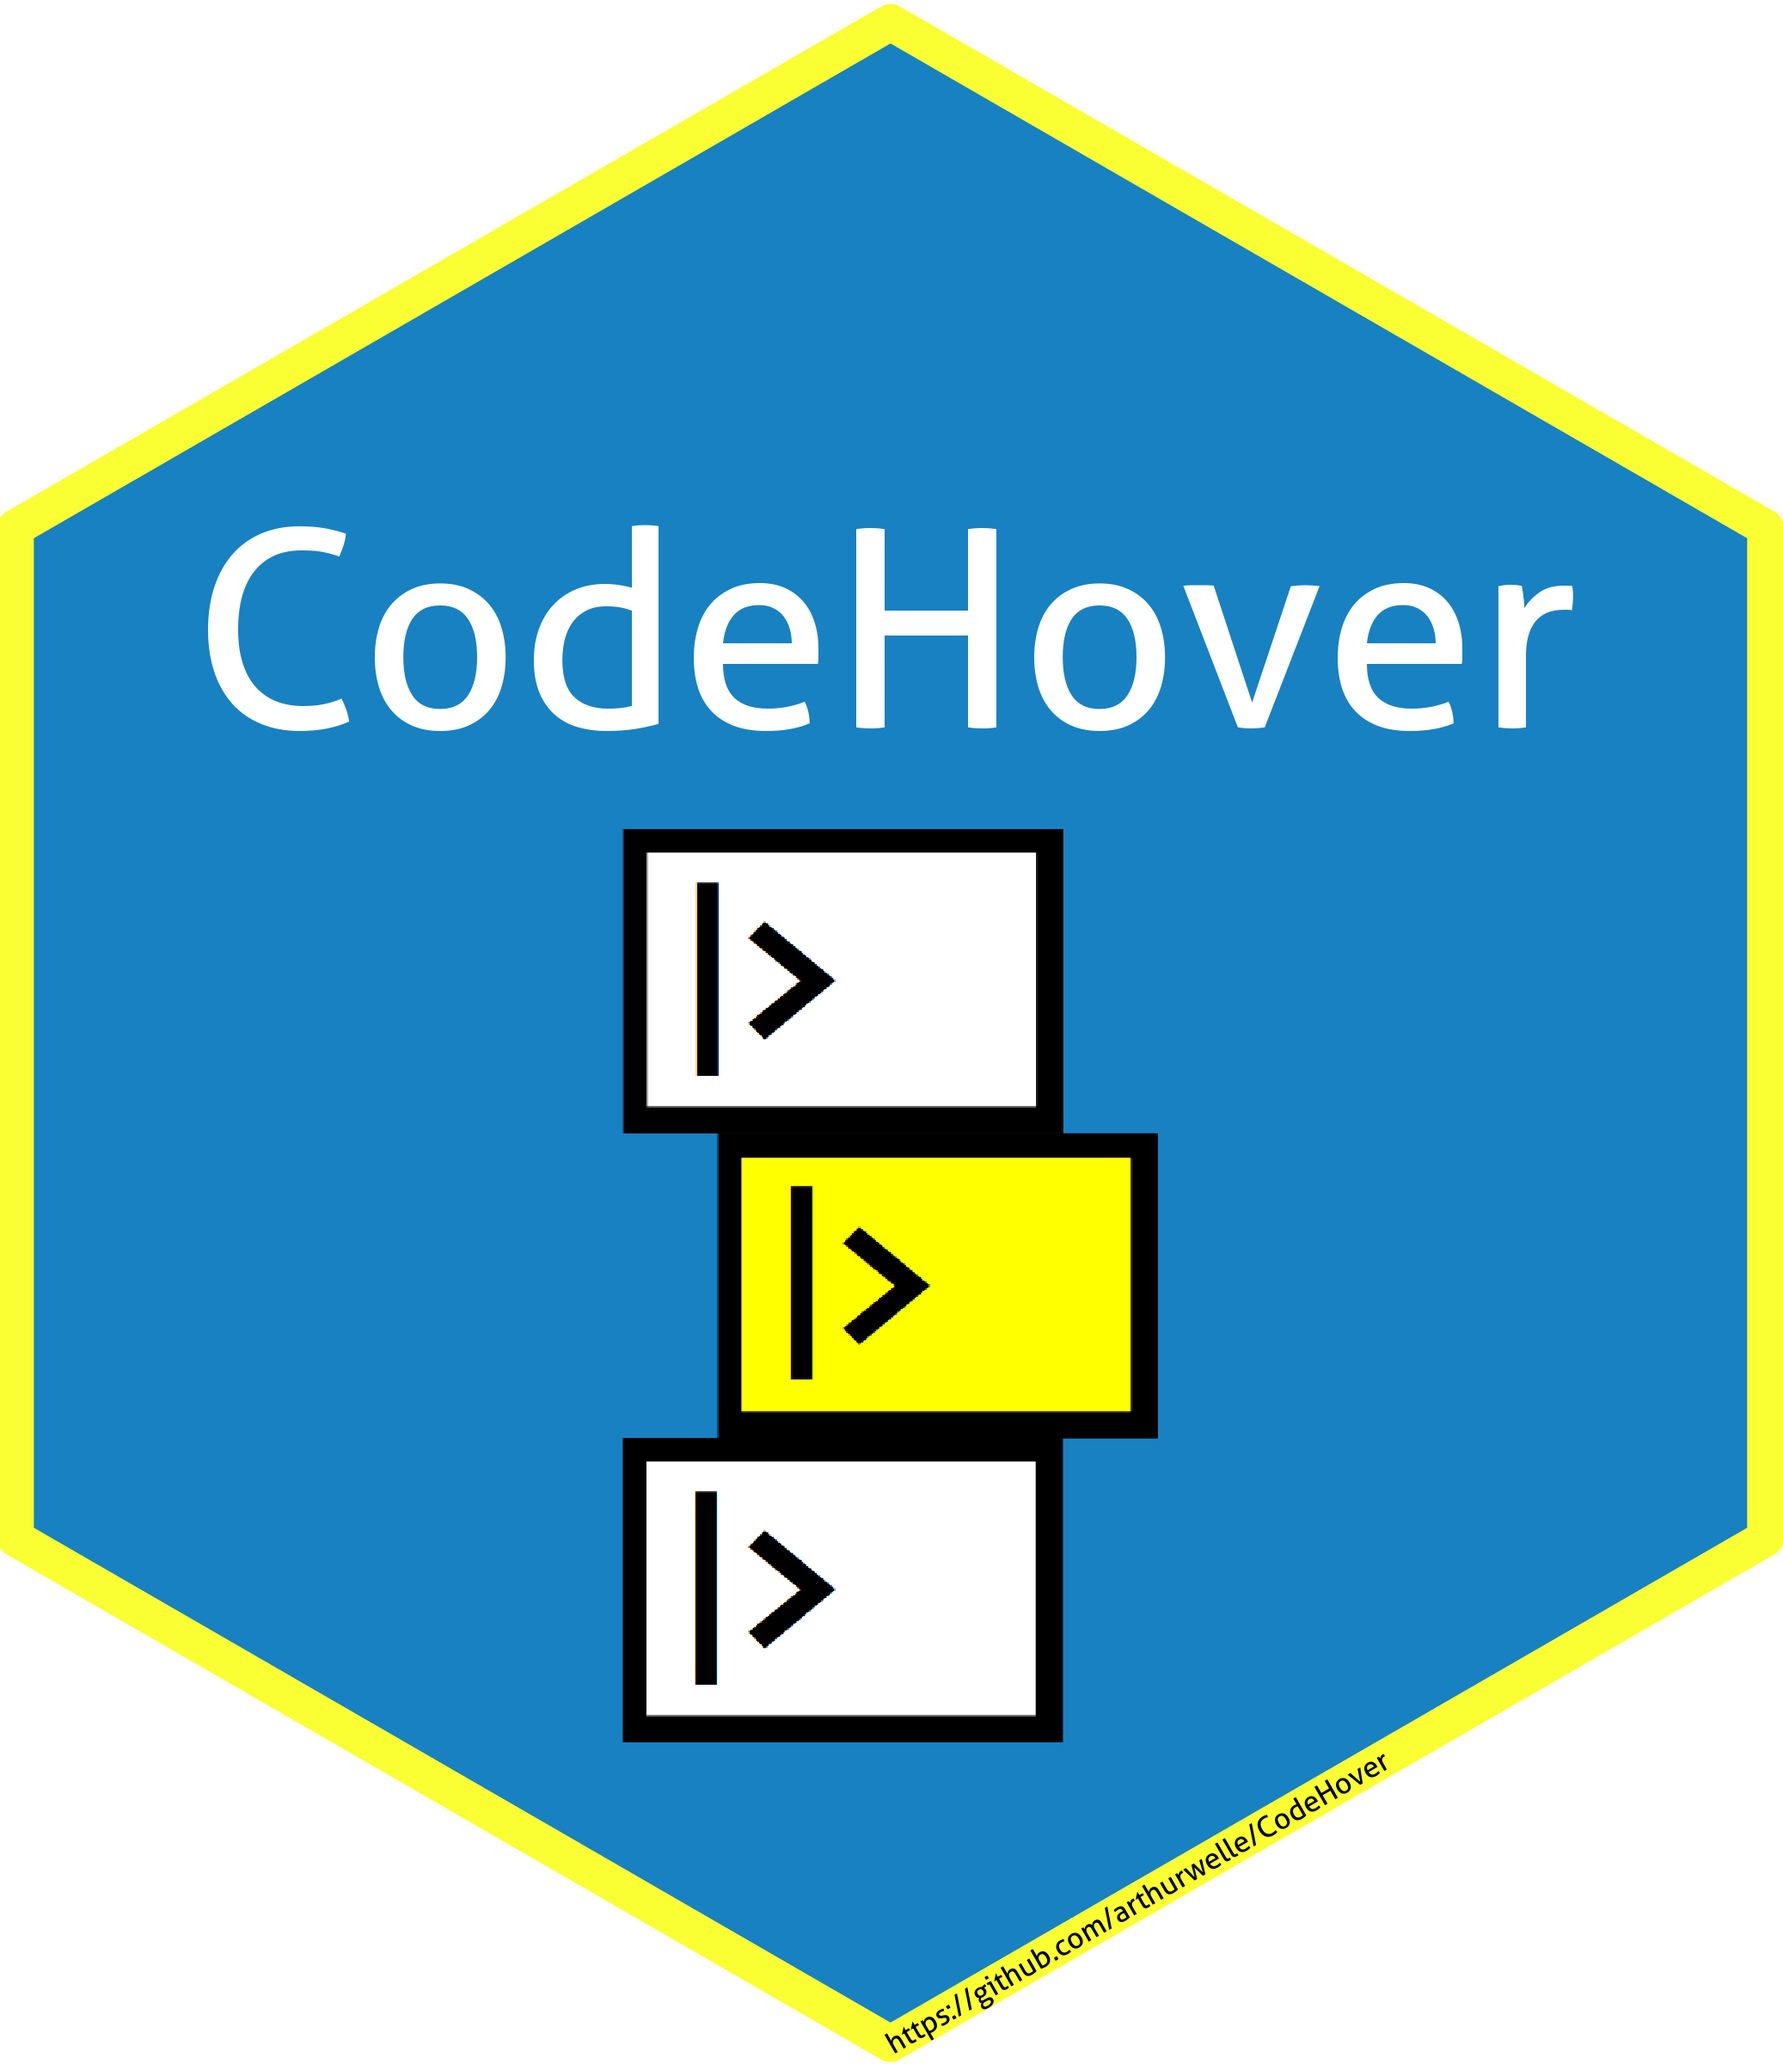
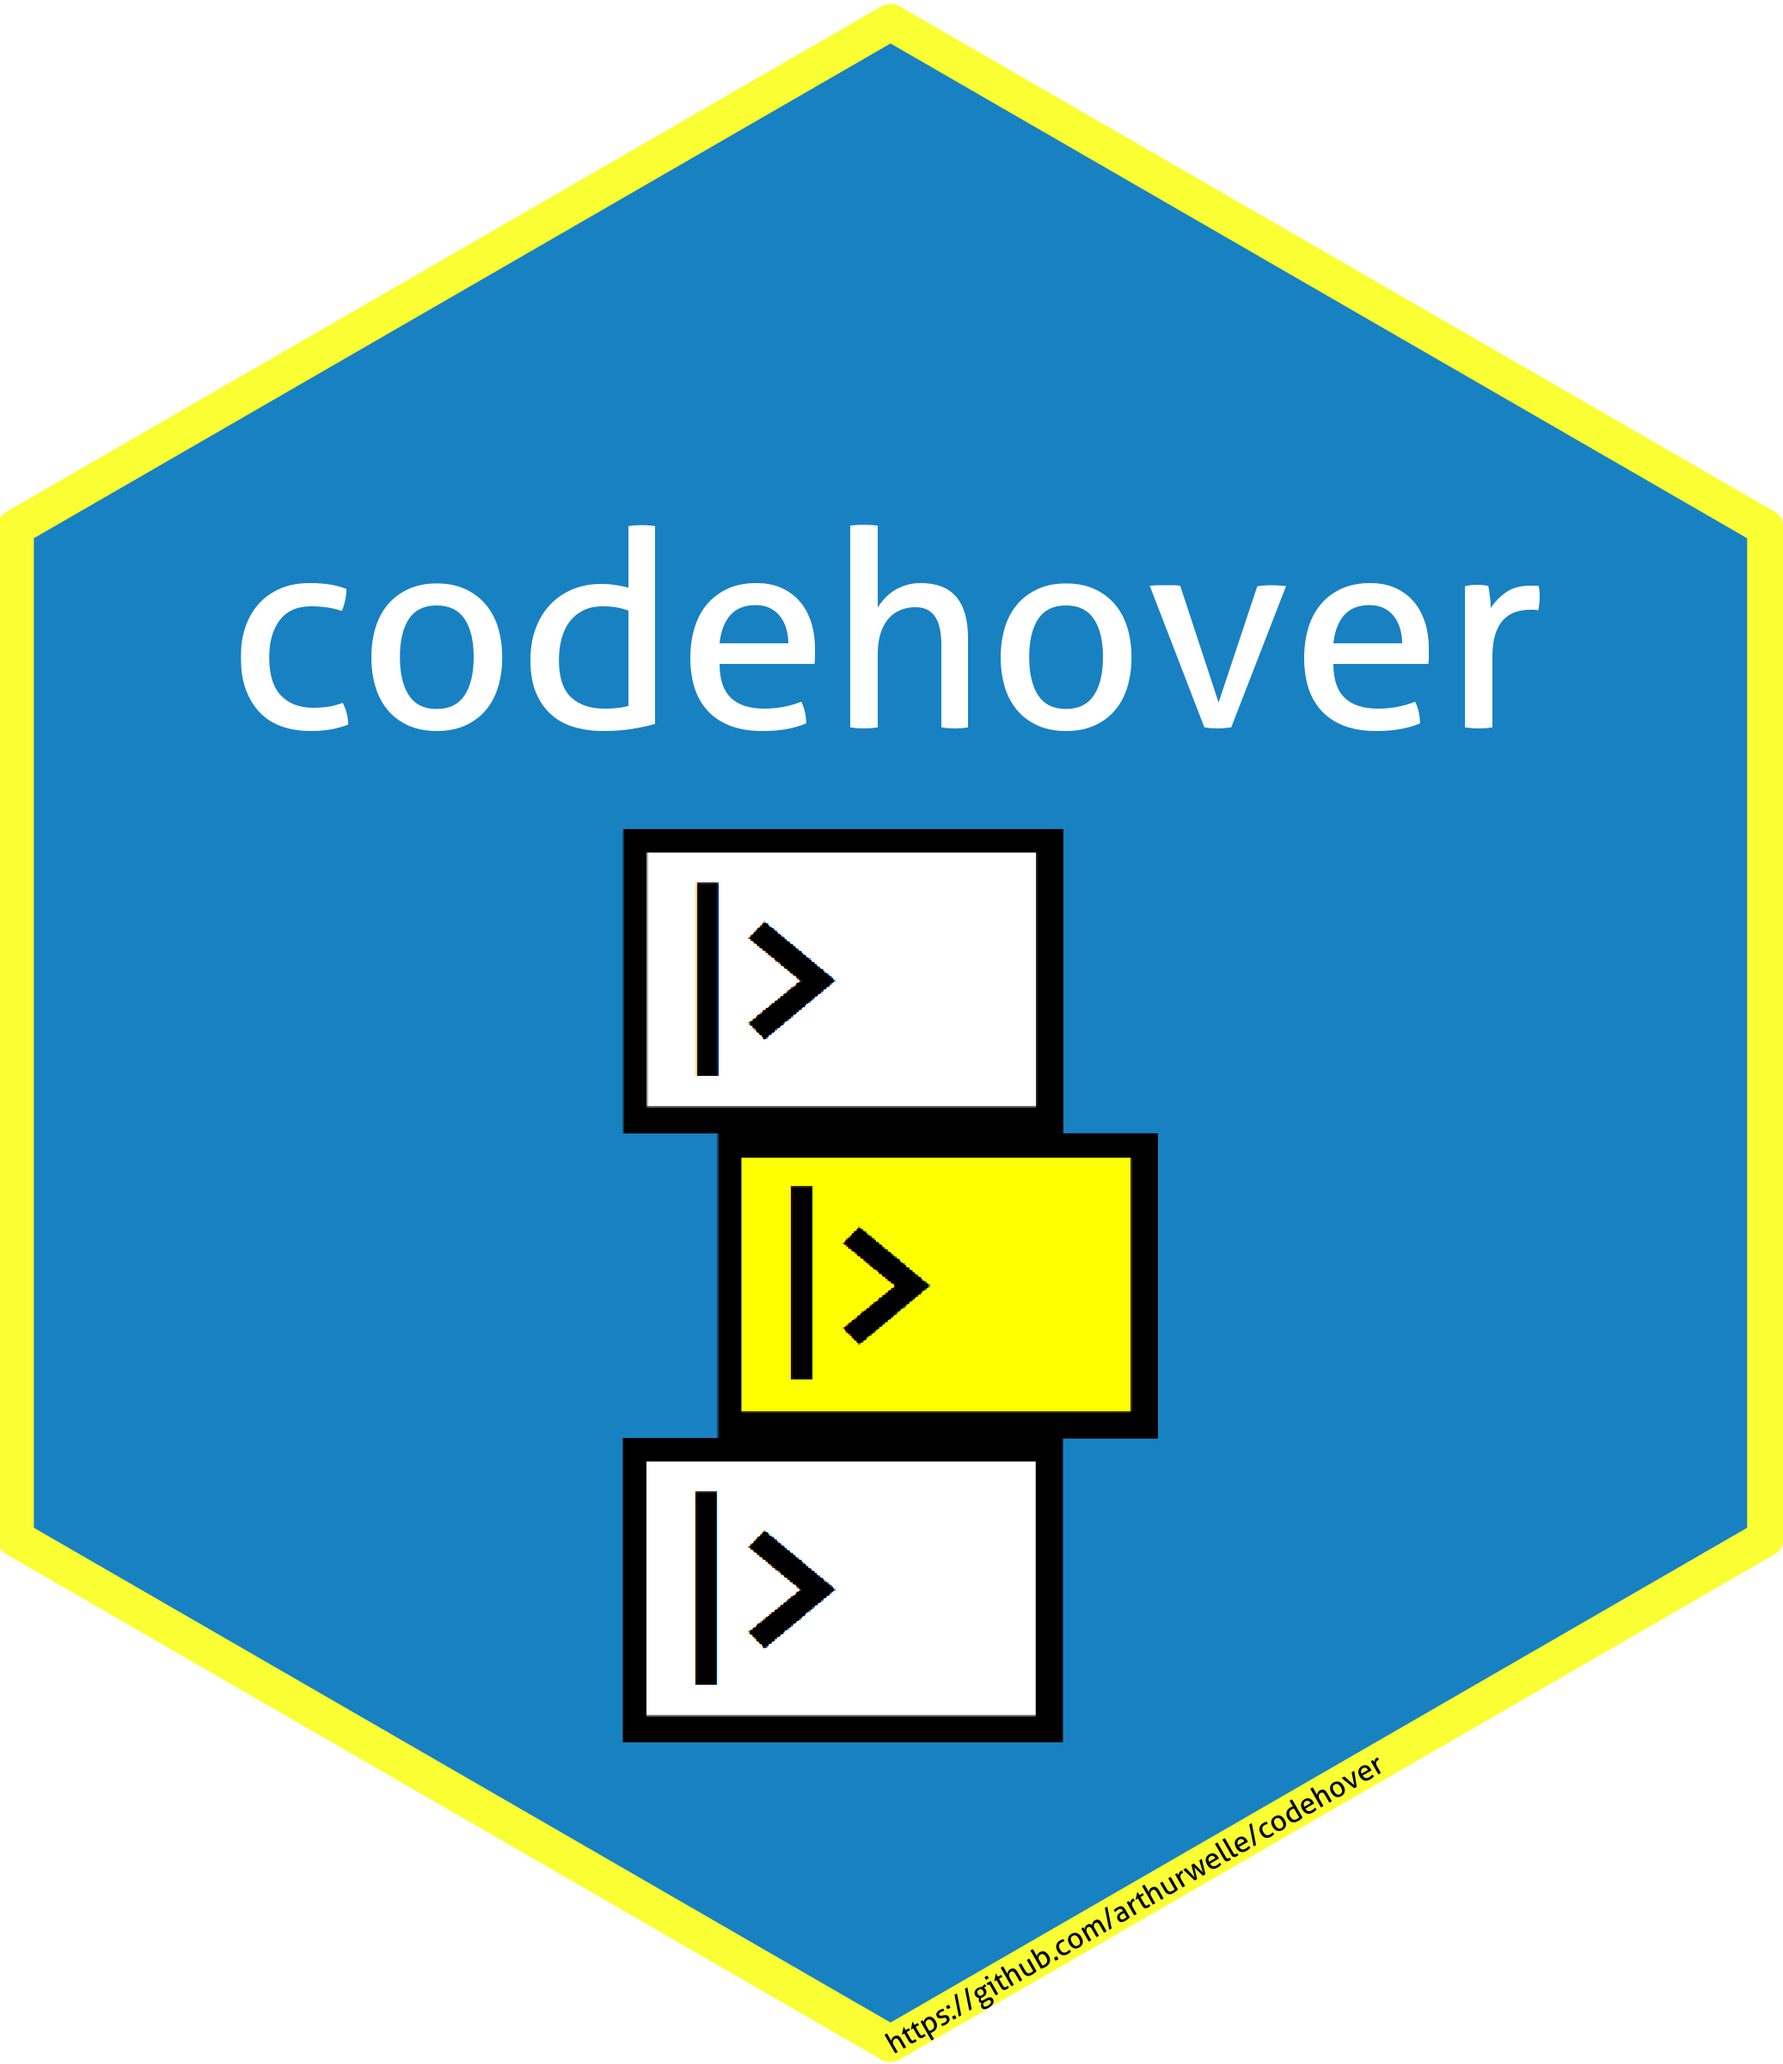
CodeHover -> codehover

diff --git a/README.md b/README.md
@@ -1,30 +1,30 @@
 
-# CodeHover <img src="HexSticker/HexSticker.png" align="right" width="250" />
+# codehover <img src="HexSticker/HexSticker.png" align="right" width="250" />
 
 <!-- badges: start -->
 <!-- badges: end -->
 
 Pipes are an excellent way to code. They make it easy to follow the code chain of transformations and their results. 
 
-The CodeHover aims to make it easy to create a HTML table with a simple hover effect (JavaScript/JQuery + CSS) that shows images just bellow the said table. 
+The codehover aims to make it easy to create a HTML table with a simple hover effect (JavaScript/JQuery + CSS) that shows images just bellow the said table. 
 
 This way one could set up pseudo-lines of code (show as text) in the table and a series of images showing the intermediate results of the code with a hovering interaction. 
 
 The package use is educational, a fast way of showing code actions. 
 
-I have to say that I begin with the ideia of the package without knowing about a simillar package based on <a href= "https://github.com/yihui/xaringan">Xaringan</a>: <a href= "https://github.com/EvaMaeRey/flipbookr">flipbookr</a>. In fact, I guess it was in my subconscious all along, for I follow Gina Reynolds work on <a href= "https://twitter.com/EvaMaeRey">Twitter</a> for a long time. She made a wonderful job there, way more sophisticated than I even hope to implement here. CodeHover is aimed at a HTML page (through <a href="https://rmarkdown.rstudio.com/">RMarkdown</a>), with hover effect
+I have to say that I begin with the ideia of the package without knowing about a simillar package based on <a href= "https://github.com/yihui/xaringan">Xaringan</a>: <a href= "https://github.com/EvaMaeRey/flipbookr">flipbookr</a>. In fact, I guess it was in my subconscious all along, for I follow Gina Reynolds work on <a href= "https://twitter.com/EvaMaeRey">Twitter</a> for a long time. She made a wonderful job there, way more sophisticated than I even hope to implement here. codehover is aimed at a HTML page (through <a href="https://rmarkdown.rstudio.com/">RMarkdown</a>), with hover effect
 . By virtue of those simple differences I will keep the package online (until she implements the same functionality on flipbookr - granted that she already shows how to embed xaringan presentation into HTML(<a hred="https://evangelinereynolds.netlify.app/post/embedding-flipbook-mini-in-html-document/">here</a>)).
 
 ## Installation
 
-You can install the experimental version of CodeHover from github:
+You can install the experimental version of codehover from github:
 
 ``` r
 install.packages("devtools")
-devtools::install_github("arthurwelle/CodeHover")
+devtools::install_github("arthurwelle/codehover")
 ```
 
-After installation a new <a hred="https://rstudio.github.io/rstudio-extensions/rmarkdown_templates.html">RMarkdown Template<a> shoud be available for you (File -> New File -> R Markdown -> From Template -> CodeHover). You should use this RMarkdown template in order to work with CodeHover because it loads the JavaScript/JQuery and the CSS necessary for its tasks. 
+After installation a new <a hred="https://rstudio.github.io/rstudio-extensions/rmarkdown_templates.html">RMarkdown Template<a> shoud be available for you (File -> New File -> R Markdown -> From Template -> codehover). You should use this RMarkdown template in order to work with codehover because it loads the JavaScript/JQuery and the CSS necessary for its tasks. 
 
 Sometimes after installation the template won't show up in the menu. In this case, restart RStudio, it should come up then.
 
@@ -73,17 +73,17 @@ ggplot2::ggsave("./IMG/6b.png", width = 4, height = 3)
 
 ```
 
-CodeHover has three functions that should be used together in a pipe-like style: ``ch_int()``, ``ch_row()``, and ``ch_out()``.
+codehover has three functions that should be used together in a pipe-like style: ``ch_int()``, ``ch_row()``, and ``ch_out()``.
 
 ``ch_int()`` initiates the HTML table, one can choose if the hover effect will be incremental or for a single row of the table. You can pass a custom CSS class for the whole table here as well.
  
-After that you can use multiple ``ch_row`` calls to make as many rows as you like in the HTML table. For every line you should pass a *text* (the pseudo code you want to show) and an image. By default CodeHover uses <a href="https://yihui.org/knitr/">knitr</a> to encode the image file as a base64 string, with that your final HTML is self-contain in just one file (the images would be inside it). With multiple images this can increase file size considerable, so it´s optional to pass an url (with url = TRUE) if you dont want the behavior of embeding images. This way you can host your images anywhere.
+After that you can use multiple ``ch_row`` calls to make as many rows as you like in the HTML table. For every line you should pass a *text* (the pseudo code you want to show) and an image. By default codehover uses <a href="https://yihui.org/knitr/">knitr</a> to encode the image file as a base64 string, with that your final HTML is self-contain in just one file (the images would be inside it). With multiple images this can increase file size considerable, so it´s optional to pass an url (with url = TRUE) if you dont want the behavior of embeding images. This way you can host your images anywhere.
 
 Note that the code use some &lt;tabs> and &amp;nbsp; for indentation of the final text. See more of that bellow.
 
 Finally you show close the table with the function ``ch_out``. Here you can indicate another image to be show before any hover interaction, as well as to pass another CSS class to the image holder to control its size and placement in the page.
 
-With these three CodeHover functions you create an object (in fact just a text string) that ``htmltool::HMTL()`` function can inject in the HTML page. 
+With these three codehover functions you create an object (in fact just a text string) that ``htmltool::HMTL()`` function can inject in the HTML page. 
 
 
 ```{r, echo=TRUE}
@@ -125,7 +125,7 @@ htmltools::HTML(result)
 
 From <a href="https://stat.ethz.ch/R-manual/R-patched/library/base/html/Quotes.html">Quotes</a> we see than "*single quotes are normally only used to delimit character constants containing double quotes*". This is the exactlly use here, we have to use single quotes in the R code that we want to pass as text for the HTML table.
 
-For exemple, if we want to pass a ggplot2 title we could interchangebly use labs(title = "A Title") or labs(title = 'A Title'), but if we want to pass this as text to CodeHover we should use single quotes. 
+For exemple, if we want to pass a ggplot2 title we could interchangebly use labs(title = "A Title") or labs(title = 'A Title'), but if we want to pass this as text to codehover we should use single quotes. 
 
   ch_row(text = "labs(title = 'A Title')")
          
@@ -141,7 +141,7 @@ And to proper indent your text, as you would like to do to a code, you can use t
 
 &amp;emsp; = it is equal to four &amp;nbsp;
 
-Alternatively the CodeHover CSS has the tags &lt;tab1> to &lt;tab16> to denote 1 to 16 tabs (each tab is 4 spaces). To use it you have to enclose the text in those tags. For example:
+Alternatively the codehover CSS has the tags &lt;tab1> to &lt;tab16> to denote 1 to 16 tabs (each tab is 4 spaces). To use it you have to enclose the text in those tags. For example:
 
 ch_row(text = "&lt;tab7>theme_bw()&lt;/tab7>")
 
@@ -178,4 +178,4 @@ $('.pipehover_select_one_row tr').hover(function() {
 
 # Reference
 
-The CodeHover hex sticker was made using the R package <a href="https://github.com/GuangchuangYu/hexSticker">hexSticker</a>. 
+The codehover hex sticker was made using the R package <a href="https://github.com/GuangchuangYu/hexSticker">hexSticker</a>. 
